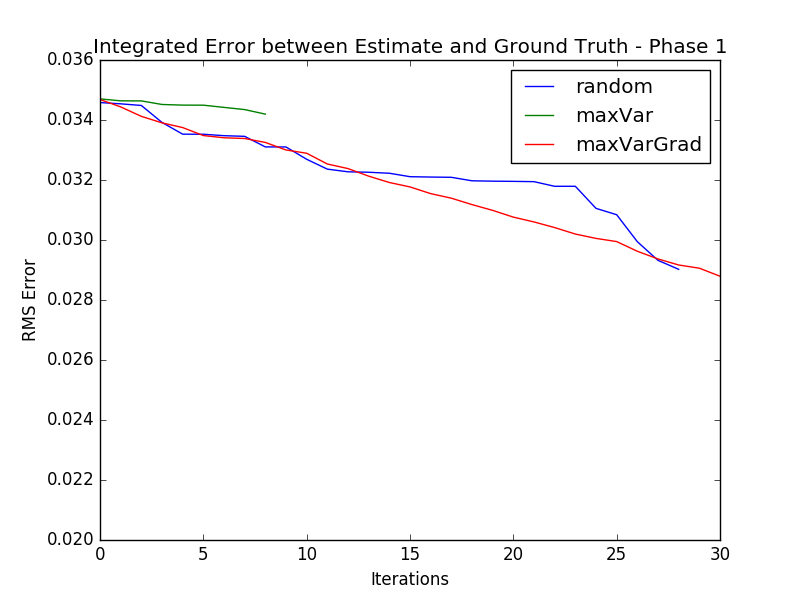
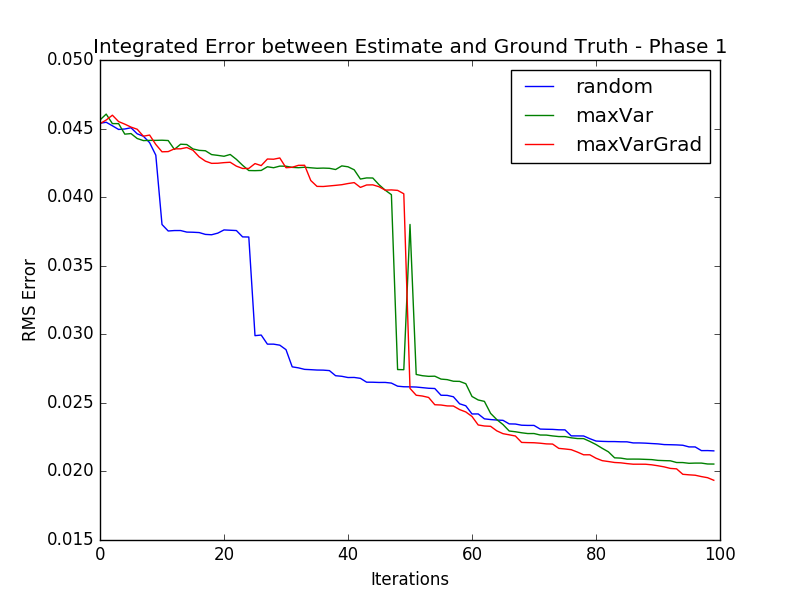
plotting average error vs. iterations across all experiments

diff --git a/src/scaffoldPhase1.py b/src/scaffoldPhase1.py
@@ -5,14 +5,14 @@ import matplotlib.pyplot as plt
 from runPhase1 import *
 
 
-NUM_EXPERIMENTS = 1
+NUM_EXPERIMENTS = 3
 
 surfaces = ["flat", "smooth_sin1"]              # add another model ?
 stops = [[1.343, 1.343, 1.343, 1.343],
          [1.343, 1.343, 1.343, 1.343]]
 textures = ["_lam", "_text", "_spec", "_st"]
     # lambert, texture, specular, specular + texture
-methods = ["random", "maxVar","maxVarGrad"]
+methods = ["random", "maxVar"]#,"maxVarGrad"]
 
 
 def save_data(arr, name, surface_name):
@@ -22,30 +22,33 @@ def save_data(arr, name, surface_name):
     return
 
 def save_table(table, name):
+    formatter = ",{}"*len(methods) + "\n"
     f = open(name + ".csv", 'wb')
     # header
     f.write(",,Random Probings,Max Variance,Max Variance Gradient\n")
     # data in table
-    f.write("flat,lam,{},{},{}\n".format(*table[0]))
-    f.write(",text,{},{},{}\n".format(*table[1]))
-    f.write(",spec,{},{},{}\n".format(*table[2]))
-    f.write(",st,{},{},{}\n".format(*table[3]))
+    f.write(("flat,lam"+formatter).format(*table[0]))
+    f.write((",text"+formatter).format(*table[1]))
+    f.write((",spec"+formatter).format(*table[2]))
+    f.write((",st"+formatter).format(*table[3]))
 
-    f.write("S,lam,{},{},{}\n".format(*table[4]))
-    f.write(",text,{},{},{}\n".format(*table[5]))
-    f.write(",spec,{},{},{}\n".format(*table[6]))
-    f.write(",st,{},{},{}\n".format(*table[7]))
+    f.write(("S,lam"+formatter).format(*table[4]))
+    f.write((",text"+formatter).format(*table[5]))
+    f.write((",spec"+formatter).format(*table[6]))
+    f.write((",st"+formatter).format(*table[7]))
 
     f.close()
     return
 
 def plot_error(errors, name, surface_name):
+    errors = np.array(errors)
+    errors = np.mean(errors, axis=0)
     for e in errors:
         plt.plot(e)
     plt.xlabel("Iterations")
-    plt.xlim(0, 30)
+    # plt.xlim(0, 30)
     plt.ylabel("RMS Error")
-    plt.title("Integrated Error between Estimate and Ground Truth - Phase 1")
+    plt.title("Integrated Error b/w Estimate and GT - Phase 1 - "+str(NUM_EXPERIMENTS)+" Experiments")
     plt.legend(methods, loc='upper right')
     plt.savefig("image_pairs/"+surface_name+'/'+name)
     plt.close()
@@ -59,6 +62,7 @@ def run_phase1_full():
         for j, text in enumerate(textures):
             # if i*len(textures) + j != 0:        # Use this to run only the nth surface
             #     continue
+            errors_per_experiment = []
             for k in range(NUM_EXPERIMENTS): # repeat experiment number of times
                 disparityMeas = None
                 errors_per_method = []
@@ -76,7 +80,8 @@ def run_phase1_full():
                     save_table(iter_table, "phase1_iterations")
                     save_table(error_table, "phase1_errors")
                     errors_per_method.append(errors)
-                plot_error(errors_per_method, "phase1_error_exp"+str(k), surf+text)
+                errors_per_experiment.append(errors_per_method)
+            plot_error(errors_per_experiment, "phase1_error", surf+text)
     return
 
 

diff --git a/src/readPhase1Data.py b/src/readPhase1Data.py
@@ -43,16 +43,32 @@ def save_table(table, name):
     f.close()
     return
 
+def plot_error(errors, name, surface_name):
+    for e in errors:
+        plt.plot(e)
+    plt.xlabel("Iterations")
+    # plt.xlim(0, 30)
+    plt.ylabel("RMS Error")
+    plt.title("Integrated Error between Estimate and Ground Truth - Phase 1")
+    plt.legend(methods, loc='upper right')
+    plt.savefig("image_pairs/"+surface_name+'/'+name)
+    plt.close()
+    return
+
 def read_errors_from_data():
     error_table = np.zeros((len(surfaces)*len(textures), len(methods)))
     for i, surf in enumerate(surfaces):
         for j, text in enumerate(textures):
             for k in range(NUM_EXPERIMENTS): # repeat experiment number of times
                 disparityMeas = None
+                errors_per_method = []
                 for l, method in enumerate(methods):
                     data = get_data('data_'+method+"_exp"+str(k), surf+text)
                     means, sigmas, sampled_points, measures, errors, num_iters, time_elapsed = data
                     error_table[i*len(textures) + j, l] += errors[-1] / float(NUM_EXPERIMENTS)
+                    errors_per_method.append(errors)
+                plot_error(errors_per_method, "phase1_error_exp"+str(k), surf+text)
+                # return
     save_table(error_table, "phase1_errors")
     return
 

diff --git a/src/runPhase1.py b/src/runPhase1.py
@@ -79,7 +79,7 @@ def run_single_phase1_experiment(surfacename, method, disparityMeas=None, block=
     errors=[]
     sigma = 1000.0
 
-    while np.max(sigma) > stops:
+    while i < 50: # or np.max(sigma) > stops:
         print "iteration =", i
         if i==0:
             # initialize measurement from stereo data
@@ -143,6 +143,6 @@ def run_single_phase1_experiment(surfacename, method, disparityMeas=None, block=
 
 
 if __name__ == "__main__":
-    run_single_phase1_experiment("smooth_sin1", "maxVar", block=True)
+    run_single_phase1_experiment("smooth_sin1_lam", "maxVar", block=True)
 
 
